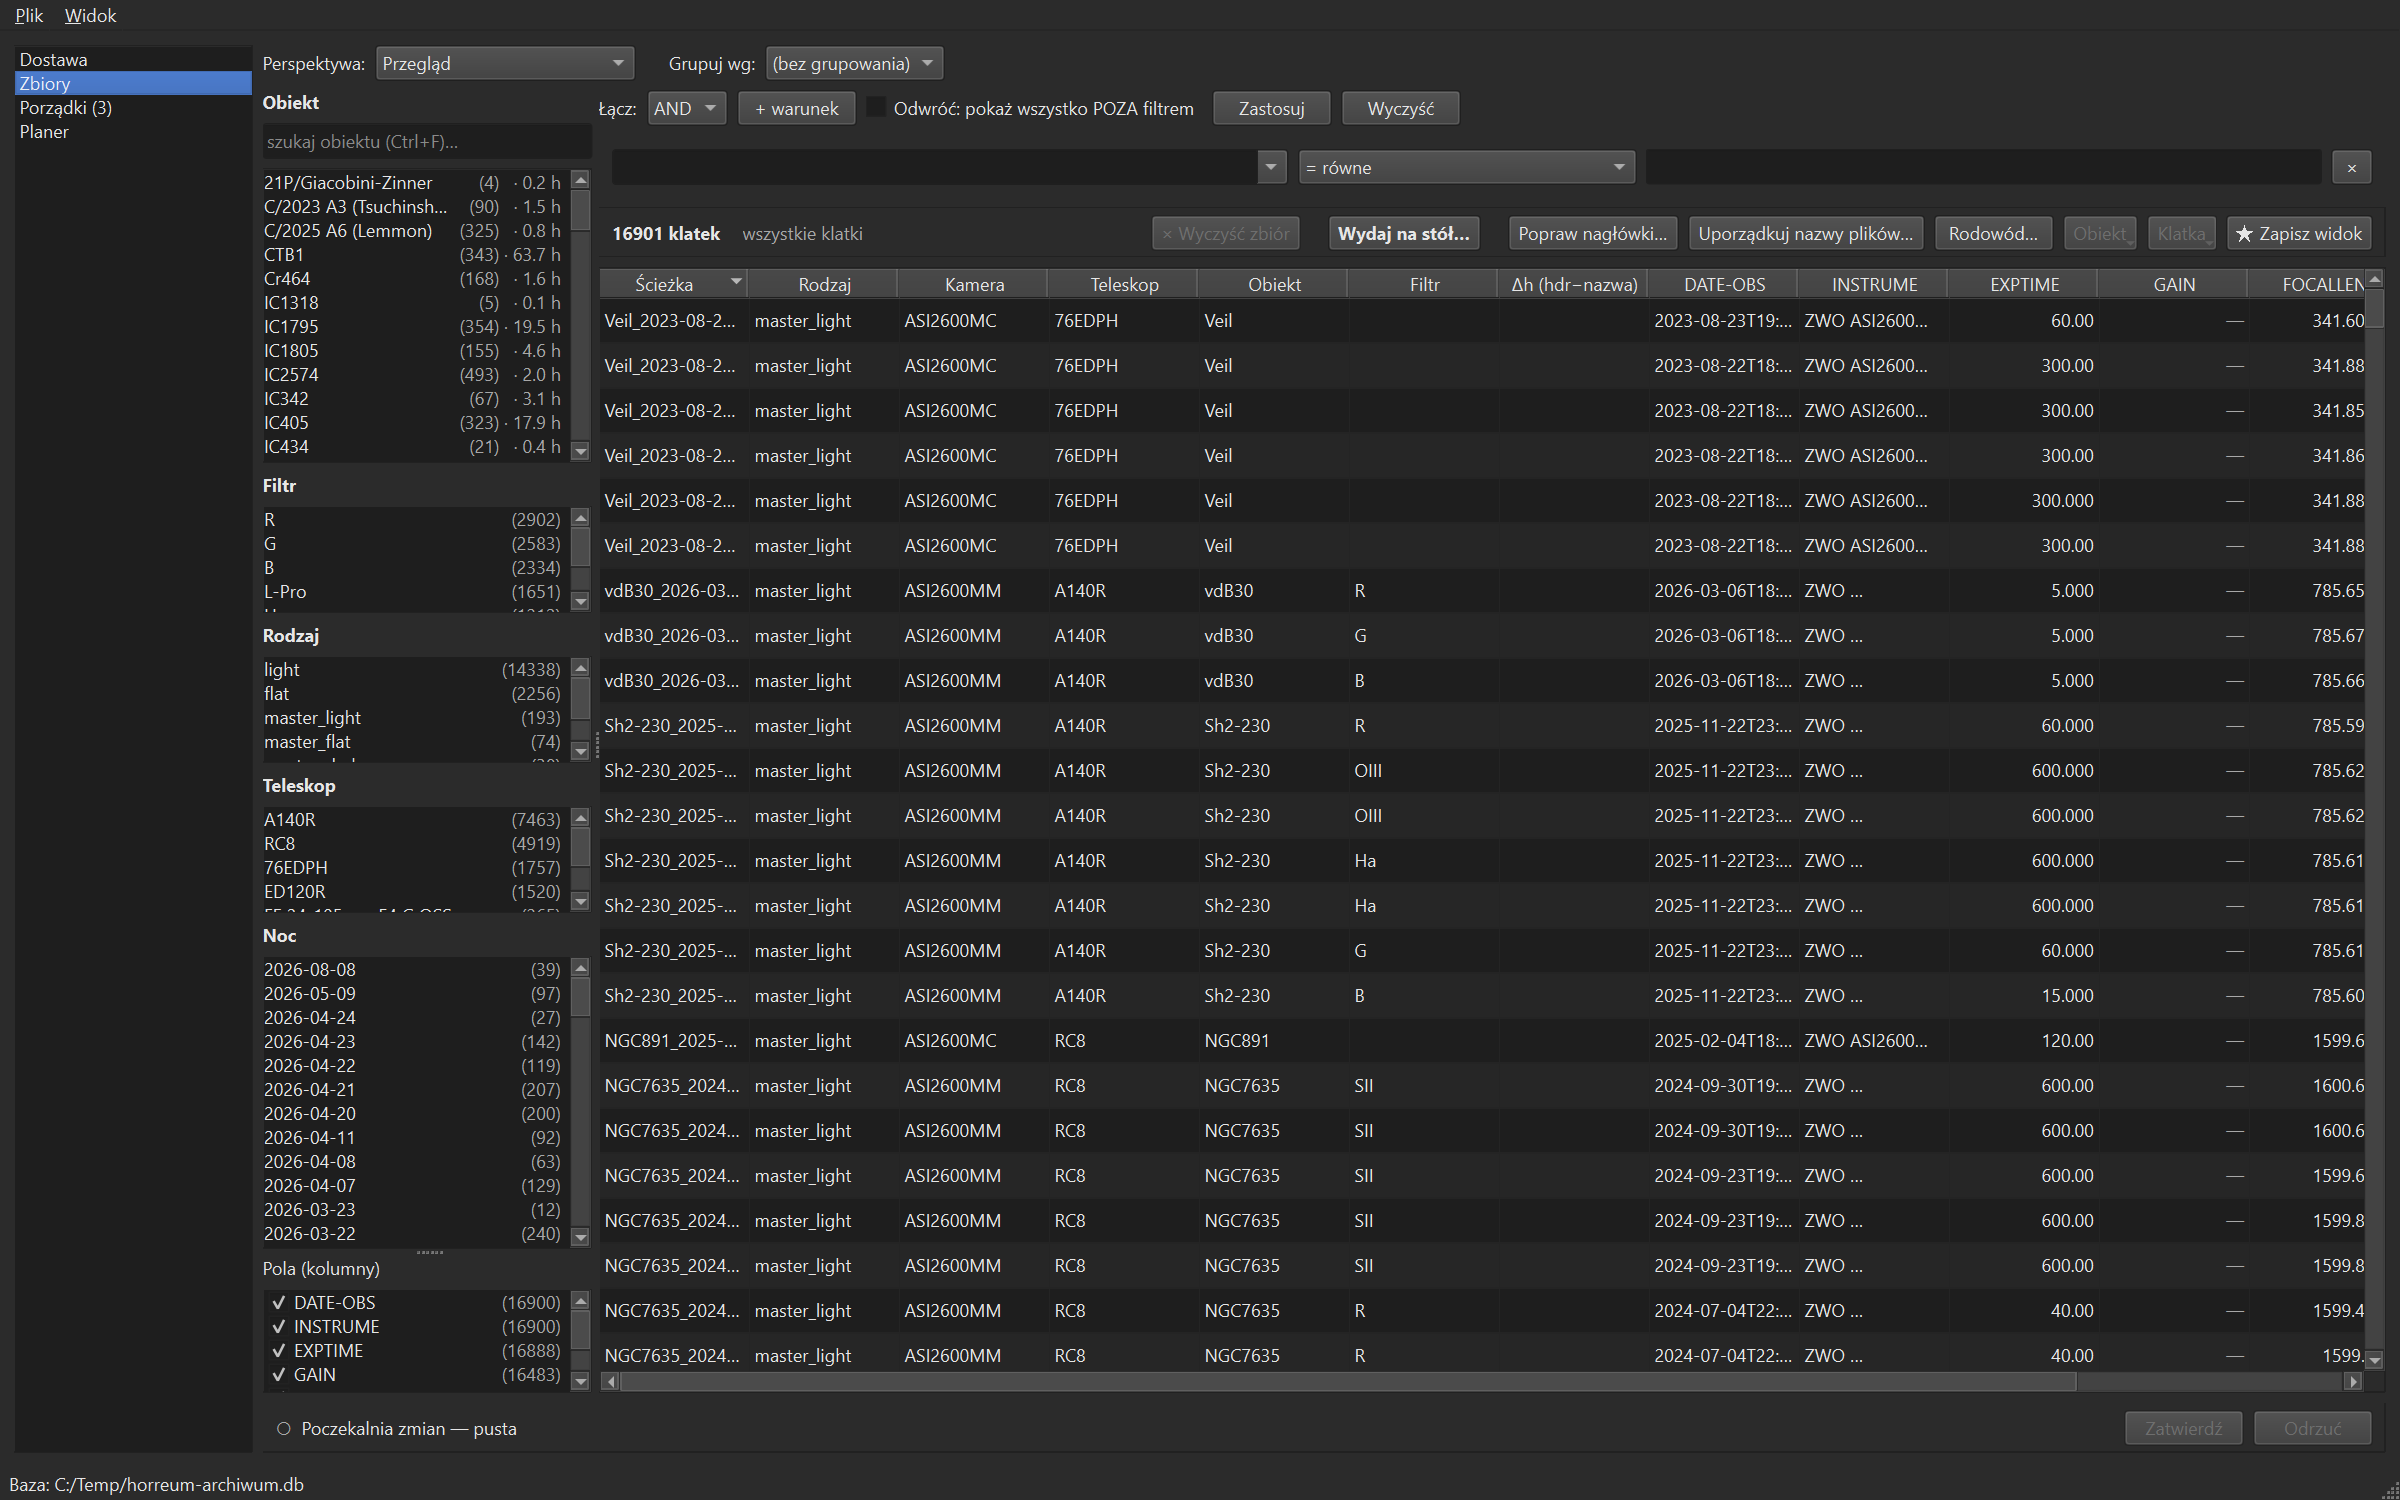
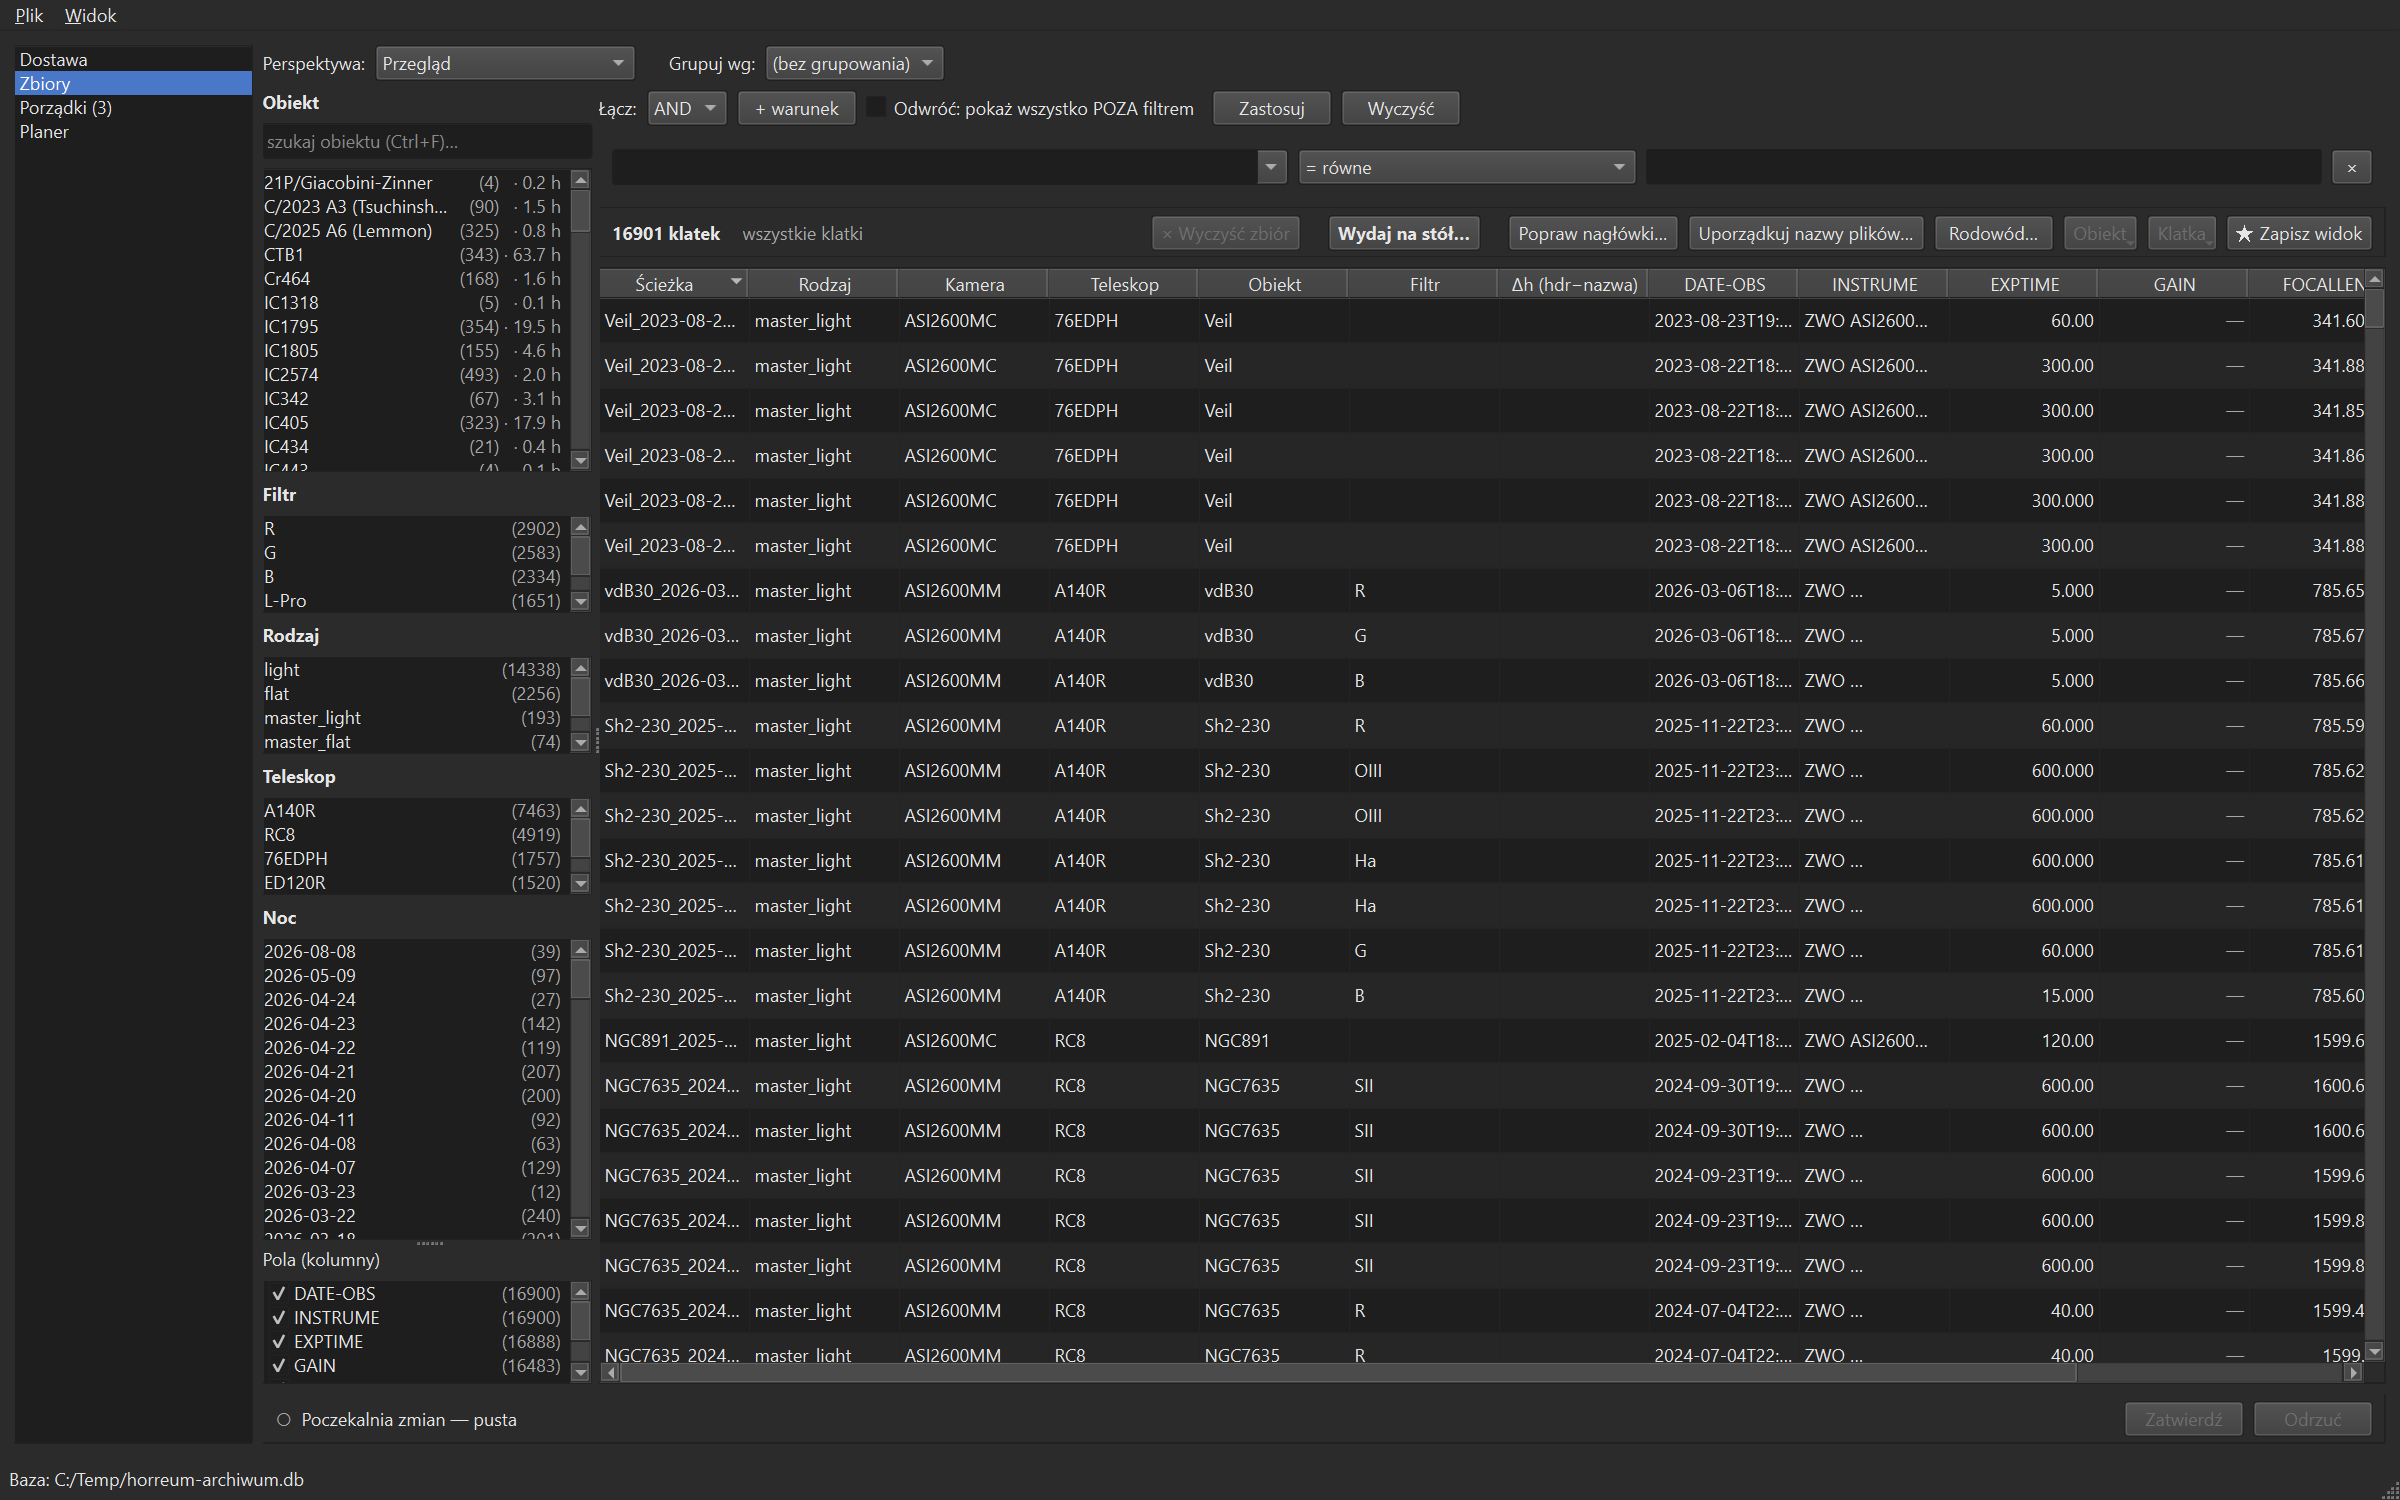
docs(wydanie): 0.10.0 - CHANGELOG, README i zrzut okna
- CHANGELOG: `[Niewydane]` -> `[0.10.0] - 2026-09-26` ze wstepem wydania
  (ekran zaraz po gescie: pusty stan z recepta, wybor w kadrze, nazwa
  perspektywy za zbiorem, jedna gramatyka liczb, rodzaj nieczytelnosci
  kopii) + link porownania v0.9.1...v0.10.0
- README: szybki start, krok 5 - kopia nieczytelna mowi, co zawiodlo
- doc/horreum-gui.png: swiezy zrzut (grupy Filtr/Rodzaj/Teleskop z czterema
  pelnymi wierszami; poprzedni byl z 0.9.0)
- pyproject.toml: 0.9.1 -> 0.10.0 (minor - doszla nowa powierzchnia:
  rodzaj nieczytelnosci kopii, migracja 0019)

1966 testow zielone (.venv-build).

diff --git a/CHANGELOG.md b/CHANGELOG.md
@@ -4,7 +4,16 @@ Format wzorowany na [Keep a Changelog](https://keepachangelog.com/pl/1.1.0/).
 Wersjonowanie [semantyczne](https://semver.org/lang/pl/). Projekt jest we wczesnym rozwoju —
 schemat i API mogą się jeszcze zmieniać.
 
-## [Niewydane]
+## [0.10.0] - 2026-09-26
+
+Wydanie o **ekranie zaraz po geście** - o chwili, w której kliknąłeś i patrzysz, co się stało.
+Gest potrafił zdjąć z widoku wszystkie klatki i zostawić pusty ekran z ogólnikiem, zaznaczenie
+w listwie filtrów uciekało poza kadr, nazwa perspektywy zostawała przy zbiorze, którego już nie
+oglądałeś, a trzy sąsiednie gesty osi obiektu liczyły każdy po swojemu. Teraz pusty ekran mówi, co
+zasłania klatki, i jednym przyciskiem je odsłania; wybór zostaje tam, gdzie go widziałeś; nazwa
+idzie za zbiorem; gesty mówią jedną gramatyką liczb. Doszła jedna nowa rzecz: kopia nieczytelna
+mówi, czy zawiódł dysk, czy plik. Schemat bazy rośnie do wersji 19 - migracja wjeżdża sama przy
+pierwszym otwarciu, bez ruszania istniejących wierszy.
 
 ### Dodane
 
@@ -845,6 +854,7 @@ Fundament: przejście na model „baza = autorytet, `sha1` = tożsamość".
 - **Import zasilający** świeżej bazy z bazy‑dawcy (read‑only).
 - **CLI**: `init` / `scan` / `group` / `resolve` / `delta`.
 
+[0.10.0]: https://github.com/abo-t/horreum/compare/v0.9.1...v0.10.0
 [0.9.1]: https://github.com/abo-t/horreum/compare/v0.9.0...v0.9.1
 [0.9.0]: https://github.com/abo-t/horreum/compare/v0.8.0...v0.9.0
 [0.8.0]: https://github.com/abo-t/horreum/compare/v0.7.0...v0.8.0

diff --git a/README.md b/README.md
@@ -107,7 +107,8 @@ horreum --help               # linia poleceń
    regiony po współrzędnych, propozycje z nazwy folderu).
 5. **Przegląd** — co wymaga ręcznej decyzji, trafia na listę. Stamtąd nazwiesz klatki ręką,
    potwierdzisz propozycję z folderu albo dopiszesz kartę `OBJECT` wprost do pliku; każdą własną
-   decyzję da się cofnąć.
+   decyzję da się cofnąć. Kopia, której nie dało się odczytać, mówi, co zawiodło: dysk (dostęp),
+   plik (nagłówek) czy program (baza).
 
 Poza tą drogą: **Stosy** (gotowe obrazy po integracji wchodzą do biblioteki razem z rodowodem —
 z czego powstały), **Planer** (co warto sfotografować dziś, z pokryciem materiału), **Wydaj na
